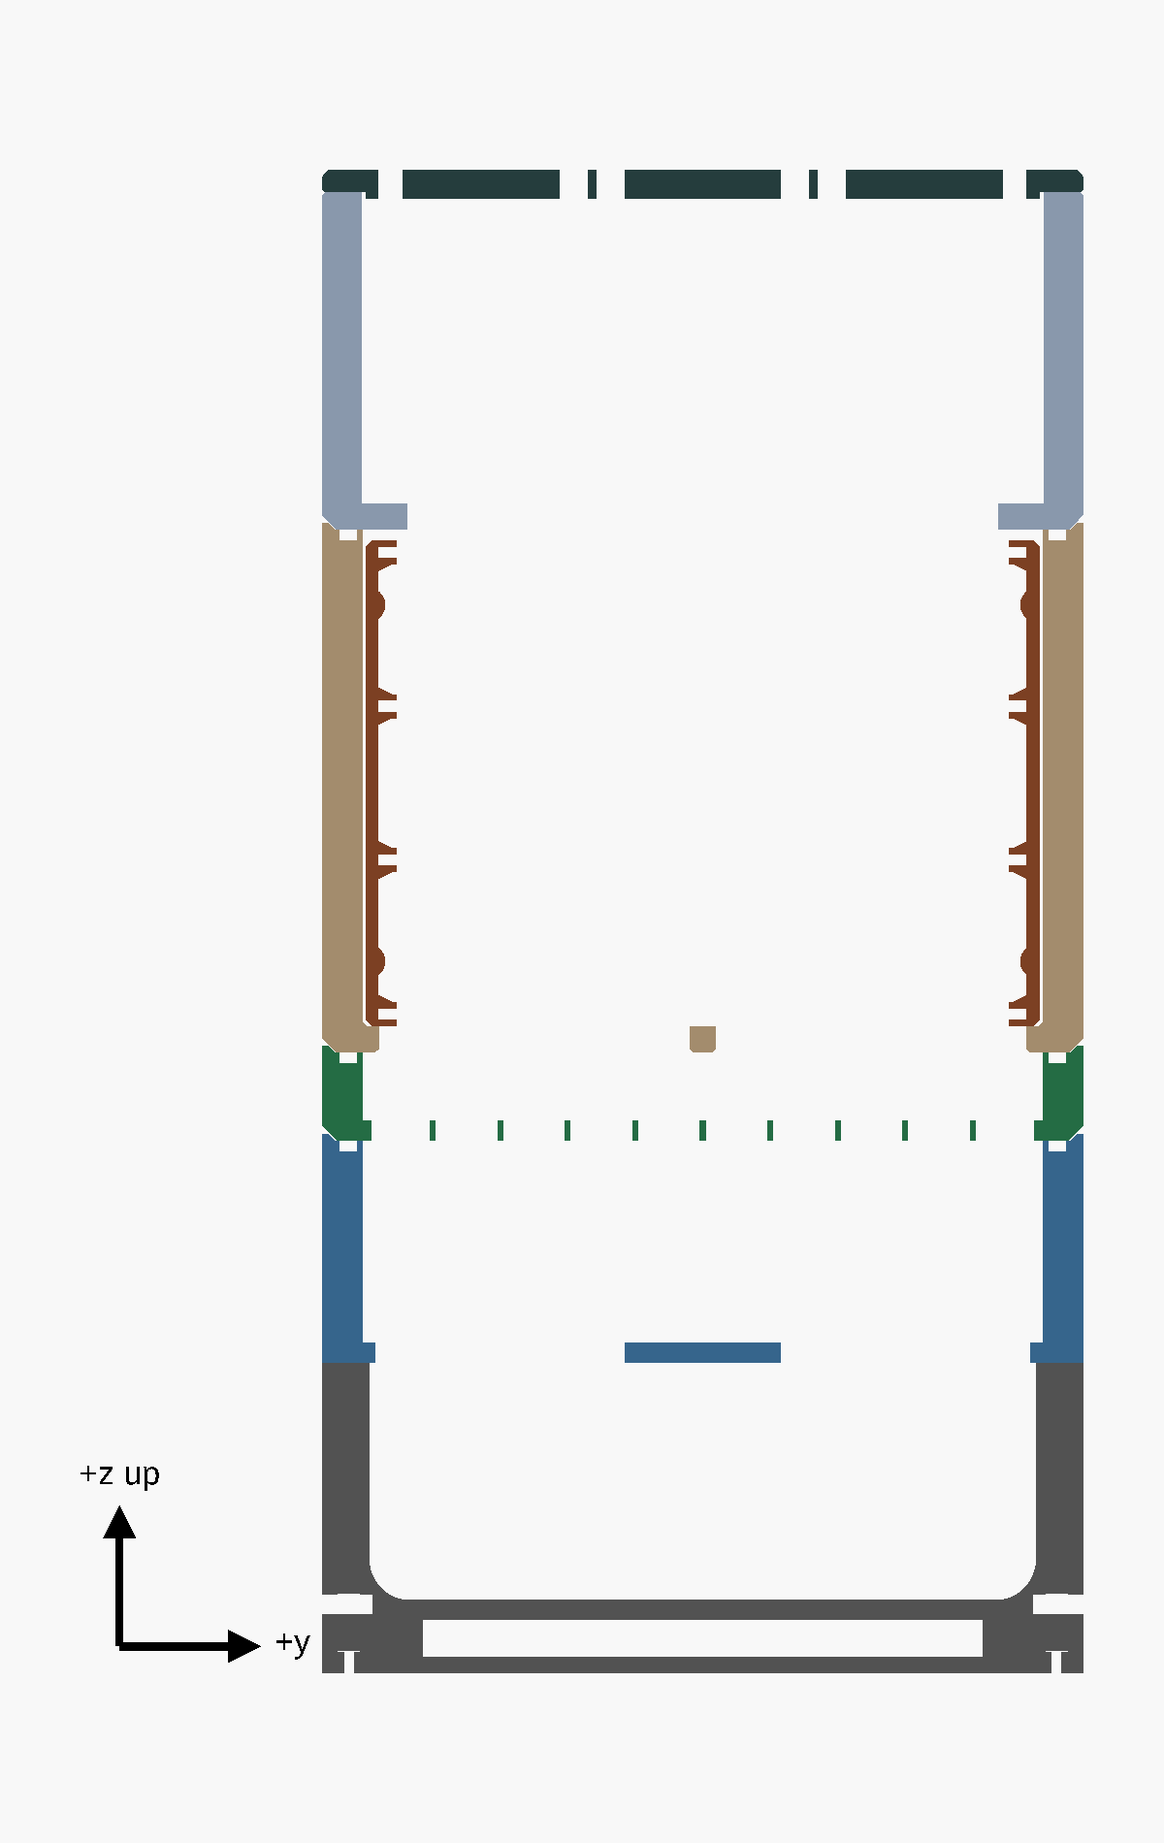
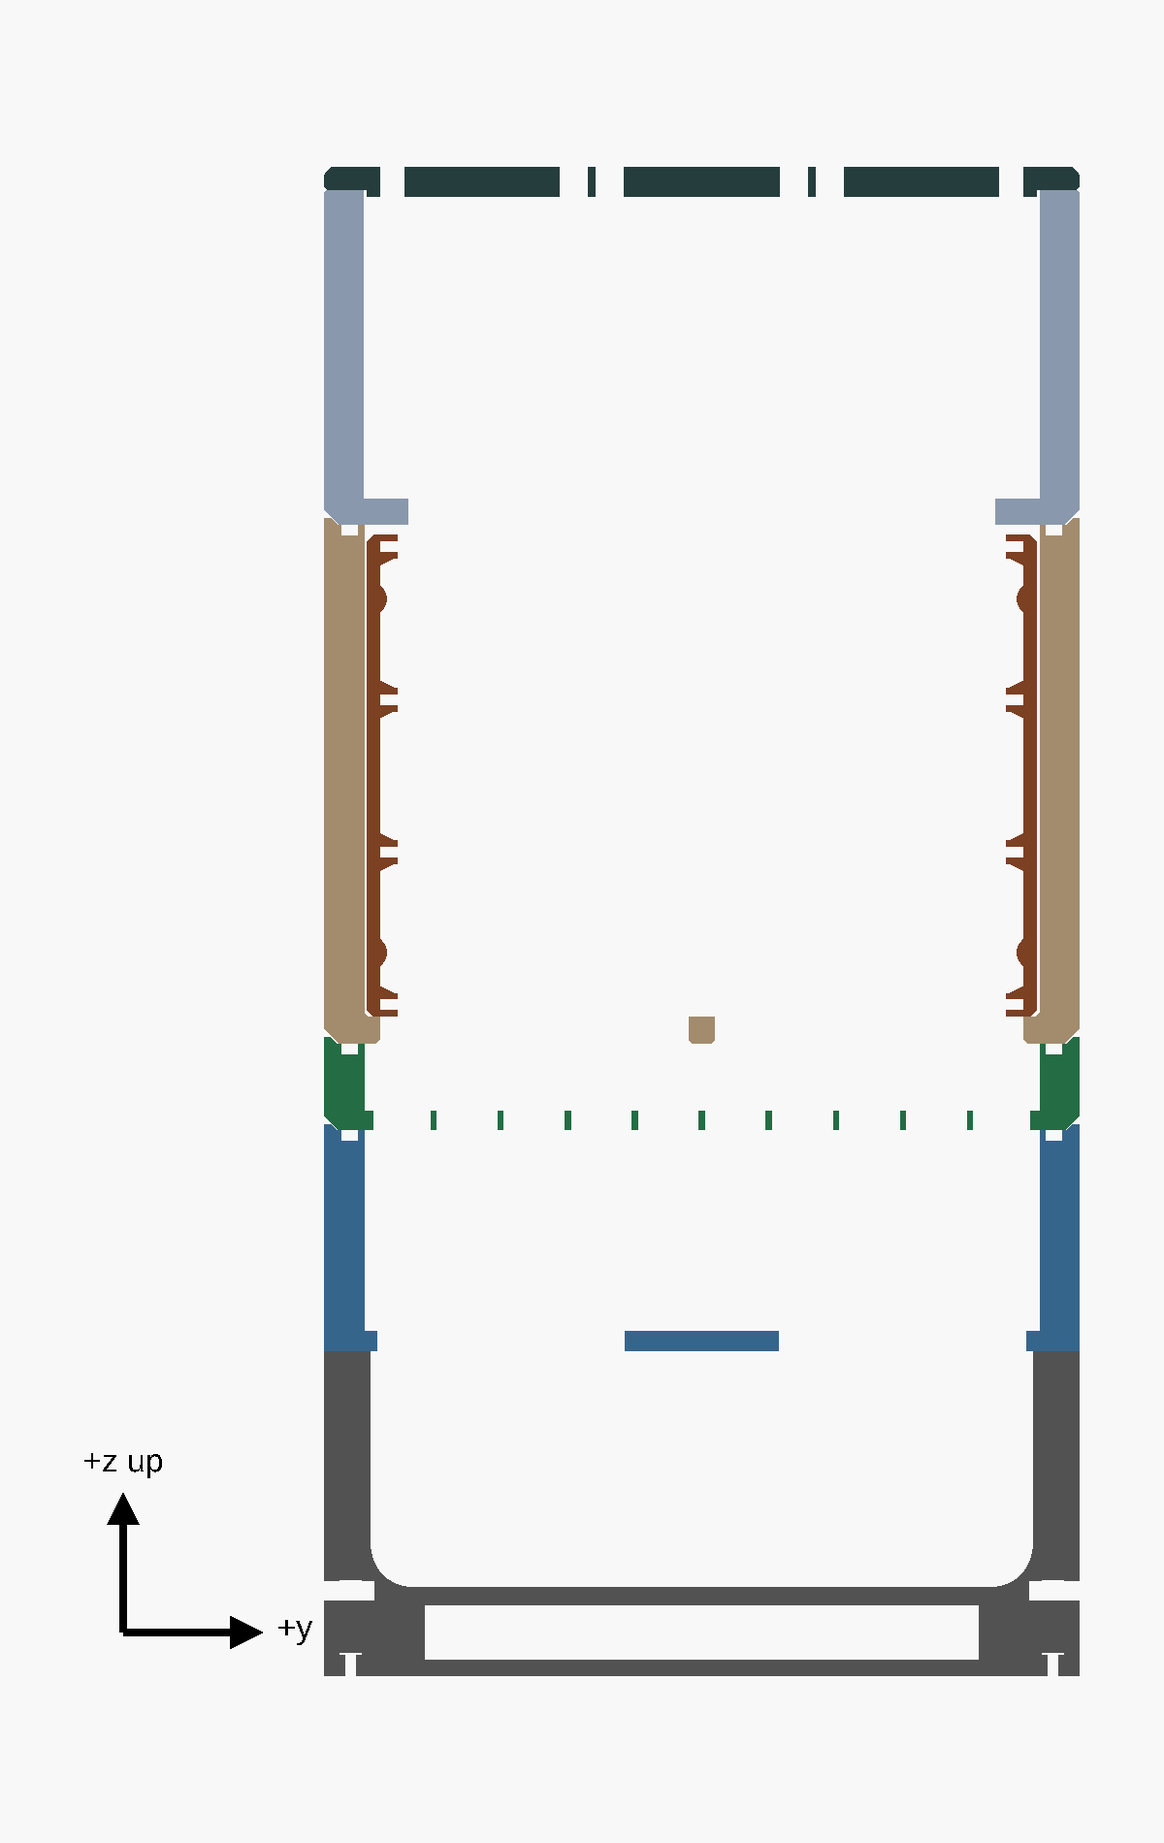
feat(bentobox): draw the base and tray from scratch; USB-C socket
Alon, 9 Oct 2026: "remake the base from scratch". The base no longer
imports the Auto's STL: its duct is drawn from the measurements - floor
flat at Z 16, turning up into the +X wall on R26, inner edges R6, walls
7 mm, the outlet's rim R2.5 - as a convex core grown by a ball scaled so
its poles and equator reach R6. Sectioned both ways at nine cuts against
the Auto's STL, it matches to about 0.05 mm. Gone: the lugs, the two
cable ports (H1, H2), the step. The wires' tube stands against the +X
wall, its hole straight down to the bay.

The tray is an outline prism: the bay 8 mm tall (D137), so the bottom
face drops 2.5 mm to Z 3.5; the tray's screws become M3 x 12.

The USB-C PD trigger board (D133, D135; Alon's measurements, Q134) lies
in a pocket in the tray's -Y end, its socket flush with the end face:
the wall in front of the board is as thick as the socket stands past it,
the socket goes through a notch open at the top that the base closes,
and a stop behind the board takes the plug's push.

Checks: base_air is the drawn duct; check_usb_board with three
controls; the missing-STL control now removes the fan section's STL.
29 fits, 38 controls.

diff --git a/scripts/bentobox-checks.py b/scripts/bentobox-checks.py
@@ -41,7 +41,7 @@ FITS = [("check_section_carbon", UNSEALED), ("check_section_fans", UNSEALED), ("
         ("check_magnets_bottom", UNSEALED), ("check_air", []),
         ("check_clamp_holder", []), ("check_clamp_frames", []), ("check_clamp_paper", []),
         ("check_clamp_opening", []), ("check_clamp_screws", []), ("check_clamp_nuts", []), ("check_clamp_nut_ways", []),
-        ("check_auto_fans_base", []), ("check_auto_tray", []), ("check_tray_slot_walls", []), ("check_auto_nuts", []), ("check_auto_nut_ways", []),
+        ("check_auto_fans_base", []), ("check_auto_tray", []), ("check_tray_slot_walls", []), ("check_usb_board", []), ("check_auto_nuts", []), ("check_auto_nut_ways", []),
         ("check_auto_screws", []), ("check_auto_wires", []), ("check_auto_air", []),
         ("check_seal_j1", []), ("check_seal_j2", []), ("check_seal_j3", []), ("check_seal_beads", []),
         ("check_seal_screws", []), ("check_seal_nuts", []), ("check_seal_nut_ways", []), ("check_seal_access", [])]
@@ -69,6 +69,9 @@ CONTROLS = [
     ("check_auto_fans_base", [("auto_fans_dz", "-30.5")], "the Auto's fan section set 0.5 mm down into its base"),
     ("check_auto_tray", [("tray_top", "14.3")], "the tray made 0.3 mm taller than the bay's roof"),
     ("check_tray_slot_walls", [("tray_screw_y", "51.4")], "the tray's screws moved 1 mm in, their slots' backs under the end walls' fillets"),
+    ("check_usb_board", [("usb_shift", "[0, -1, 0]")], "the USB-C board moved 1 mm out, into the wall in front of it"),
+    ("check_usb_board", [("usb_notch_w", "8.5")], "the socket's notch made narrower than the socket"),
+    ("check_usb_board", [("usb_notch_r", "1.2")], "the socket's notch made lower than the socket"),
     ("check_auto_nuts", [("nut_fit", "-0.3")], "the nuts' slots and pockets made narrower than a nut"),
     ("check_auto_nut_ways", [("tray_slot_past", "-3")], "the tray's nut slots stopped 3 mm inside the end faces: no way in"),
     ("check_auto_nut_ways", [("pull_rise", "3")], "the fans' nut pockets started 3 mm up their posts' undersides: no way in"),
@@ -89,7 +92,7 @@ CONTROLS = [
     # A missing original makes every intersection empty, which reads as a pass: its import's WARNING must fail it.
     ("check_section_carbon", UNSEALED + [("carbon_stl", '"original/missing.stl"')], "the housing's STL missing - must be reported, not passed"),
     ("check_clamp_holder", [("hepa_stl", '"original/missing.stl"')], "the holder's STL missing - must be reported, not passed"),
-    ("check_auto_fans_base", [("auto_base_stl", '"original/missing.stl"')], "the Auto base's STL missing - must be reported, not passed"),
+    ("check_auto_fans_base", [("auto_fans_stl", '"original/missing.stl"')], "the Auto fan section's STL missing - must be reported, not passed"),
 ]
 MISSING = "Can't open import file"
 

diff --git a/scripts/bentobox-auto-stl.py b/scripts/bentobox-auto-stl.py
@@ -13,7 +13,8 @@ the repository's root:
 STEP defaults to the one file in models/bentobox/original/ whose name has "Auto" in it and ends in .step.
 Beside it, this writes:
 
-  bentobox-auto-base.stl    the base: the duct, the wires' tube, and the bay for the electronics under it
+  bentobox-auto-base.stl    the base: the duct, the wires' tube, and the bay for the electronics under it -
+                            measured, not used: the remix draws its own
   bentobox-auto-fans.stl    the fan section
   bentobox-auto-plate.stl   the plate that closes the bay - not used: the remix's tray replaces it
 

diff --git a/docs/bentobox-scrubber.md b/docs/bentobox-scrubber.md
@@ -7,9 +7,10 @@ goes through the C-MAG, a cartridge that holds the carbon pellets in three thin 
 other. Two 40 mm fans in the fan case pull it down and blow it into the duct, which turns it out of one long
 side, at the floor. It is built for the two Delta EFB0412VHD this build has, 40 × 40 × 20 mm.
 
-**Its bottom is the BentoBox Auto's** (see *The bottom*): the same duct, its floor raised over a bay for the
-electronics, with a tube down to it for the wires, and nuts where the Auto had heat-set inserts. The bay is a
-tray of its own, screwed on underneath.
+**Its bottom is after the BentoBox Auto's** (see *The bottom*): the same duct, its floor raised over a bay for
+the electronics, drawn from scratch to the Auto's measurements, with a tube down to the bay for the wires, nuts
+where the Auto has heat-set inserts, and a USB-C socket for its 12 V. The bay is a tray of its own, screwed on
+underneath.
 
 **Its joints under suction are sealed** (see *The sealed joints*): a TPU bead in a groove at each, and four
 screws in tabs at the corners, where the original has magnets.
@@ -27,9 +28,9 @@ The remix adds four parts, takes its bottom from the BentoBox Auto, and seals th
 | **Section** | Goes between the carbon housing and the fan section, holding a flat filter sheet that stops carbon dust reaching the fans. Sealed at both its faces, with a pillar at each corner that the carbon housing's screws pass through. `sealed = false` builds it with the original's tongue, groove and magnets, to drop into any BentoBox v2.0 stack. | [`bentobox-section.scad`](../models/bentobox/bentobox-section.scad) |
 | **Paper clamp** | Two ASA frames, screwed together with a cut piece of pleated paper between them, standing on the HEPA holder's ledge in place of the cartridge: wedges from above and teeth from below pinch the paper's cut ends, and a bar from each its long edges. | [`bentobox-clamp-lower.scad`](../models/bentobox/bentobox-clamp-lower.scad), [`bentobox-clamp-upper.scad`](../models/bentobox/bentobox-clamp-upper.scad) |
 | **Clamp sample** | One end of each frame, on one plate: to try the pinch on an offcut before the whole clamp. | [`bentobox-clamp-sample.scad`](../models/bentobox/bentobox-clamp-sample.scad) |
-| **Base** | The Auto's, in place of the duct, cut off at its bay's roof: the wires' tube, the fans' four nuts pulled up into pockets where it had heat-set inserts, and four nuts in slots for the tray's screws. | [`bentobox-auto-base.scad`](../models/bentobox/bentobox-auto-base.scad) |
+| **Base** | In place of the duct, drawn to the Auto's: the duct over the bay's roof, the wires' tube, the fans' four nuts pulled up into pockets in round posts, and four nuts in slots for the tray's screws. | [`bentobox-auto-base.scad`](../models/bentobox/bentobox-auto-base.scad) |
 | **Fan section** | The Auto's, in place of the fan case, its top remixed for the sealed joint. | [`bentobox-auto-fans.scad`](../models/bentobox/bentobox-auto-fans.scad) |
-| **Tray** | The Auto's bay, split off its base: the floor, the walls, the cable port and the magnets' holes, screwed on under the base with four screws, their heads sunk in its bottom face. | [`bentobox-auto-tray.scad`](../models/bentobox/bentobox-auto-tray.scad) |
+| **Tray** | The bay under the base, 8 mm tall: its floor and walls, the USB-C trigger board in a pocket in the -Y end with its socket flush with the end face, and four magnet holes; screwed on under the base with four screws, their heads sunk in its bottom face. | [`bentobox-auto-tray.scad`](../models/bentobox/bentobox-auto-tray.scad) |
 | **Carbon housing** | ThrutheFrame's, remixed for the sealed joints: a collar, the bead's groove and the nuts' tabs on top, the screws' tabs underneath. | [`bentobox-carbon.scad`](../models/bentobox/bentobox-carbon.scad) |
 | **HEPA holder** | ThrutheFrame's, its bottom remixed to sit sealed on the carbon housing, and its pocket cut out to the box's whole inside, for a bigger piece of paper. | [`bentobox-hepa.scad`](../models/bentobox/bentobox-hepa.scad) |
 | **Bead ring** | Three, in TPU: the gasket in each sealed joint. | [`bentobox-bead-ring.scad`](../models/bentobox/bentobox-bead-ring.scad) |
@@ -72,14 +73,19 @@ hold it, through its pillars, to the fan section.
 
 ## The bottom
 
-The base and the fan section are Strangwooduk's, from the
-[BentoBox Auto VOC Sensor system](https://makerworld.com/en/models/1882240), a remix of ThrutheFrame's box.
+The fan section is Strangwooduk's, from the
+[BentoBox Auto VOC Sensor system](https://makerworld.com/en/models/1882240), a remix of ThrutheFrame's box. The
+base and its tray are drawn here, from scratch, to the measurements of his base (Alon, 9 Oct 2026).
 
-- **The base is ThrutheFrame's duct**, the same walls and the same curved floor, with the floor raised about
-  11 mm over a **bay for the electronics**, 40.8 × 82.8 mm and 5.5 mm deep. The Auto closes it with a plate on
-  two screws; here it is a tray (see *The tray*). Base and tray are 46 mm tall where the duct is 52.
+- **The base is ThrutheFrame's duct** with its floor raised about 11 mm over a **bay for the electronics**, as
+  the Auto's is: the floor flat from the outlet, then turning up into the +X wall on a 26 mm radius; the inside's
+  edges rounded 6 mm; the walls 7 mm; the outlet's rim rounded 2.5 mm. Sectioned both ways at nine cuts, the
+  drawn duct is the Auto's to about 0.05 mm. It has none of the Auto's lugs, cable ports or step.
+- **The bay** is 40.8 × 82.8 mm and 8 mm tall (Alon, 9 Oct 2026), where the Auto's is 5.5: the boards in it lie
+  flat with wires over them. The box stands 2.5 mm taller for it, 48.5 mm where ThrutheFrame's duct is 52.
 - **A tube carries the wires down**: a 6 mm hole in the fan section's floor between the fans, and a tube
-  under it through the base to the bay. The two fans' leads go down it; a 4.5 mm bundle passes.
+  under it, against the +X wall, straight down to the bay. The two fans' leads go down it; a 4.5 mm bundle
+  passes.
 - **The air leaves the same way**: out of the whole long side, 101 × 37 mm (3,700 mm²) where the duct's
   opening is 74 × 46 (3,400 mm²). Both are larger than the fans' own two 37 mm openings, and the HEPA, not
   the duct, sets the flow, so the airflow below, simulated with the duct, should hold within a few per cent.
@@ -99,37 +105,40 @@ before it. Their mount is not drawn yet.
 **Nuts, not heat-set inserts.** The fans' nuts are pull nuts; the tray's lie flat in slots that open one way.
 
 - **The fans' four screws**, M3 × 30, come down through each fan and the fan section's floor into a pull
-  nut, in a post. The Auto has a lug under each insert, hung from its wall: round at its end, its sides on
-  fillets into the wall, straight down and then on a round into a 45° underside that meets the wall. Each post
-  is round, on the screw's axis, running into the wall on fillets as the lug does, seamless with the wall and
-  the base's top, and it holds the Auto's lug inside it. A hex pocket runs up it on the screw's axis, open
+  nut, in a post. Each post is round, on the screw's axis, running into its wall on fillets, straight down and
+  then on a round into a 45° underside that meets the wall. A hex pocket runs up it on the screw's axis, open
   under the post, into a tight seat 2 mm under the base's top; a screw from above pulls the nut up into the
   seat, and it stays there. Each pocket has a flat 5° off the nearer fan, so it keeps 0.9 mm of wall to the
   fan's air, and 0.14 mm to its wall's face. Round, each post reaches 0.69 mm in under the edge of its fan's
-  opening in the fan section's floor, towards the fan's corner: about 2 mm² of the opening's 1,075. The base's
-  top is cut 0.05 mm down so the posts' tops are its own; the fan section stands that much lower.
+  opening in the fan section's floor, towards the fan's corner: about 2 mm² of the opening's 1,075.
 - Each nut pocket's roof, and each slot's, starts with two bridging layers, a channel and then a square, so the
   screw's hole prints over it without support.
 
-**The tray.** The Auto's base prints standing on its bottom, and its bay's roof - the duct's floor - is then a
-bridge 41 mm across and 83 mm long. The remix splits the base there (Alon, 8 Oct 2026). The base prints standing
-on its floor, flat on the bed; the bay is a tray of its own - the floor that was the Auto's plate, the walls round
-the bay, and the ends' blocks, with the base's own outline, its cable port and its four magnet holes - and prints on
-its floor, open at the top.
+**The tray.** The base splits at the bay's roof, so that both halves print flat: the base standing on its floor,
+the tray on its own floor, open at the top. Printed whole, as the Auto's is, the bay's roof would be a bridge 41 mm
+across and 83 long.
 
-- **Its four screws**, M3 × 10 socket head, two at each end, come up through counterbores in the tray, their
+- **Its four screws**, M3 × 12 socket head, two at each end, come up through counterbores in the tray, their
   heads sunk 0.2 mm inside its bottom face, into nuts in slots in the base's end walls, just over the bay's
   roof. Each slot opens out through the end face: a nut goes in from outside and slides to the slot's end, on
   its screw's axis. A slot has 0.8 mm under it, four layers, which the nut presses onto the tray's top; low like
   that, its back keeps two beads under the end wall's fillet. The screws stand clear of the magnets' holes and,
-  at the -Y end, of the cable port.
-- **The cable port** is the Auto's, through the -Y end wall: a mouth 7.4 mm wide and then a 4.5 mm hole on to
-  the bay. In the tray both are open over the top, and the base's flat bottom closes them.
-- **The step.** Along the +X side, the Auto's bottom steps back 4 mm, up to 10 mm. In the tray the step's
-  ceiling is a 45° chamfer, so the tray prints with nothing overhanging; the room under the step is all still
-  there.
+  at the -Y end, of the USB-C board's pocket.
+- **The USB-C socket** (Alon, 9 Oct 2026). A USB-C PD trigger board takes 12 V from a charger for the fans, and
+  a step-down makes 5 V from it for the ESP32. The board - as Alon measured it, 14.51 mm long with its socket,
+  9.97 wide and 1.05 thick, the socket 8.96 × 3.25 and standing 1.55 past the board's edge - lies in a pocket in
+  the tray's -Y end, its socket's face flush with the end face: the wall in front of the board is 1.55 mm thick,
+  and the board's edge rests against it. The socket goes through a notch open at the top, the board drops into
+  its pocket from above, and the base's flat bottom closes both, 0.1 mm over the socket. Behind the board,
+  between its two pads, a stop on the bay's floor takes the plug's push. The socket's axis is 8.8 mm over the
+  bottom face, so a plug's moulding clears whatever the box stands on.
+- **In the bay**, not drawn yet: the step-down (an MP1584EN, 5 V out), an ESP32-C3 SuperMini, and an IRLZ44N
+  that switches both fans from the ESP32 (Alon, 9 Oct 2026), a diode across them; the fans' tach wires go to
+  two of the ESP32's pins. Lying flat, they fit the 8 mm. Before wiring, check that the charger offers 12 V:
+  many offer 5, 9, 15 and 20 V only.
 
-**Putting it together:** a nut in each of the four slots in the end faces, pushed to the slot's end, then the
+**Putting it together:** the USB-C board into its pocket, its wires soldered on; a nut in each of the four slots
+ in the end faces, pushed to the slot's end, then the
 tray under the base with its four screws; it comes off again from below, for the electronics. Then the fans'
 nuts, from the open top of the base: slide each nut in under its post, push it up the pocket, and pull
 it into the seat with a spare M3 screw from above; take the screw out, and the nut stays. The fans' leads down
@@ -141,7 +150,7 @@ fit is a first guess: try it on the joint sample first (see *The sealed joints*)
 
 **Seal the wires' hole.** The hole in the fan section's floor opens above the floor, into the fans' intake,
 the lowest pressure in the box, about 97 Pa under the chamber's. The tube under it opens into the bay, and
-the bay is open to the chamber: the cable port, and the tray's joint. Air
+the bay is open to the chamber at the tray's joint, round the USB-C socket, and wherever wires leave it. Air
 drawn in that way passes neither filter. Through the 6 mm hole with the fans' leads in it, as an orifice,
 that is up to about 0.09 L/s, a seventh of the flow. Seal it round the leads where they pass the floor: hot
 glue, or a TPU grommet. The LunchBox's wire hole had the same fault, and it let in a fifth of its air.
@@ -279,9 +288,9 @@ band, and a bead ring flat. No supports, no brim.
 | Clamp, lower frame | ASA | 1 | 1 h 32 m | 11 g |
 | Clamp, upper frame | ASA | 1 | 1 h 19 m | 9 g |
 | Clamp sample | ASA | 1 plate | 1 h 6 m | 7 g |
-| Base | ASA | 1 | 3 h 35 m | 37 g |
+| Base | ASA | 1 | 3 h 26 m | 36 g |
 | Fan section | ASA | 1 | 3 h 42 m | 36 g |
-| Tray | ASA | 1 | 1 h 31 m | 17 g |
+| Tray | ASA | 1 | 1 h 47 m | 20 g |
 | Carbon housing | ASA | 1 | 7 h 23 m | 71 g |
 | HEPA holder | ASA | 1 | 4 h 39 m | 45 g |
 | Bead ring | TPU 95A | 3 | 9 m each | 1 g each |
@@ -298,7 +307,7 @@ For the bottom:
 |---|---|
 | 8 | M3 hex nut, ISO 4032 |
 | 4 | M3 × 30 socket head cap screw, ISO 4762: the fans |
-| 4 | M3 × 10 socket head cap screw, ISO 4762: the tray, their heads sunk |
+| 4 | M3 × 12 socket head cap screw, ISO 4762: the tray, their heads sunk |
 
 For the sealed joints:
 
@@ -425,12 +434,13 @@ holes. It runs the air's way from the housing's floor openings down through the 
 upper frame on the lower one - meeting only at the end blocks - lays a model of the paper, drawn from its own
 values at the slot's thickness, in the frames' zigzag, keeps the air's way down under the paper open, and
 runs the four screws through the end blocks and the nuts into their seats and down out of them. For the bottom it stands the fan
-section on the base and the base on the tray, sets a nut in each of the tray's slots and slides it out through
+section on the base and the base on the tray, lays the USB-C board in its pocket - its socket through its notch,
+flush with the end face - sets a nut in each of the tray's slots and slides it out through
 the end face, and one in each fan screw's seat and draws it down its pocket and out under its post, keeps two
 beads of the end wall round each tray slot and its screw's hole, runs each screw from its head to its tip, and
 the wires down the tube, and the fans' air down into the base past the posts. Each must come out empty. Every check has a positive control,
-something broken on purpose that it must catch, and the run fails if one passes unnoticed: 28 fits and
-35 controls.
+something broken on purpose that it must catch, and the run fails if one passes unnoticed: 29 fits and
+38 controls.
 
 [`bentobox.params.scad`](../models/bentobox/bentobox.params.scad) holds the original's dimensions, measured
 by sectioning its STLs, and every setting of the section and of the paper's frame.
@@ -438,7 +448,7 @@ by sectioning its STLs, and every setting of the section and of the paper's fram
 ## Credit and licence
 
 BentoBox v2.0 is © ThrutheFrame, under [CC BY-NC-SA 4.0](https://creativecommons.org/licenses/by-nc-sa/4.0/).
-The BentoBox Auto VOC Sensor system, whose base and fan section the bottom is, is © Strangwooduk,
+The BentoBox Auto VOC Sensor system, whose fan section the bottom uses and whose base it is drawn after, is © Strangwooduk,
 under the same licence as a remix of it.
 The remix — the models in [`models/bentobox/`](../models/bentobox/) and the pictures in [`bentobox/`](bentobox/)
 — is under CC BY-NC-SA 4.0 too: free to use and share, not for sale.

diff --git a/models/bentobox/original/README.md b/models/bentobox/original/README.md
@@ -35,7 +35,7 @@ uv run scripts/bentobox-auto-stl.py
 
 | File it writes | What it is |
 |---|---|
-| `bentobox-auto-base.stl` | the base, in place of the duct: the same duct with its floor raised over a bay for the electronics, and a tube down to the bay for the wires |
+| `bentobox-auto-base.stl` | the base, in place of the duct: the same duct with its floor raised over a bay for the electronics, and a tube down to the bay for the wires - measured, not used: the remix draws its own |
 | `bentobox-auto-fans.stl` | its fan section: the fan case's top, with each fan screwed through the floor into the base, and a hole for the wires |
 | `bentobox-auto-plate.stl` | the plate that closes the bay: not used, the remix's tray replaces it |
 
